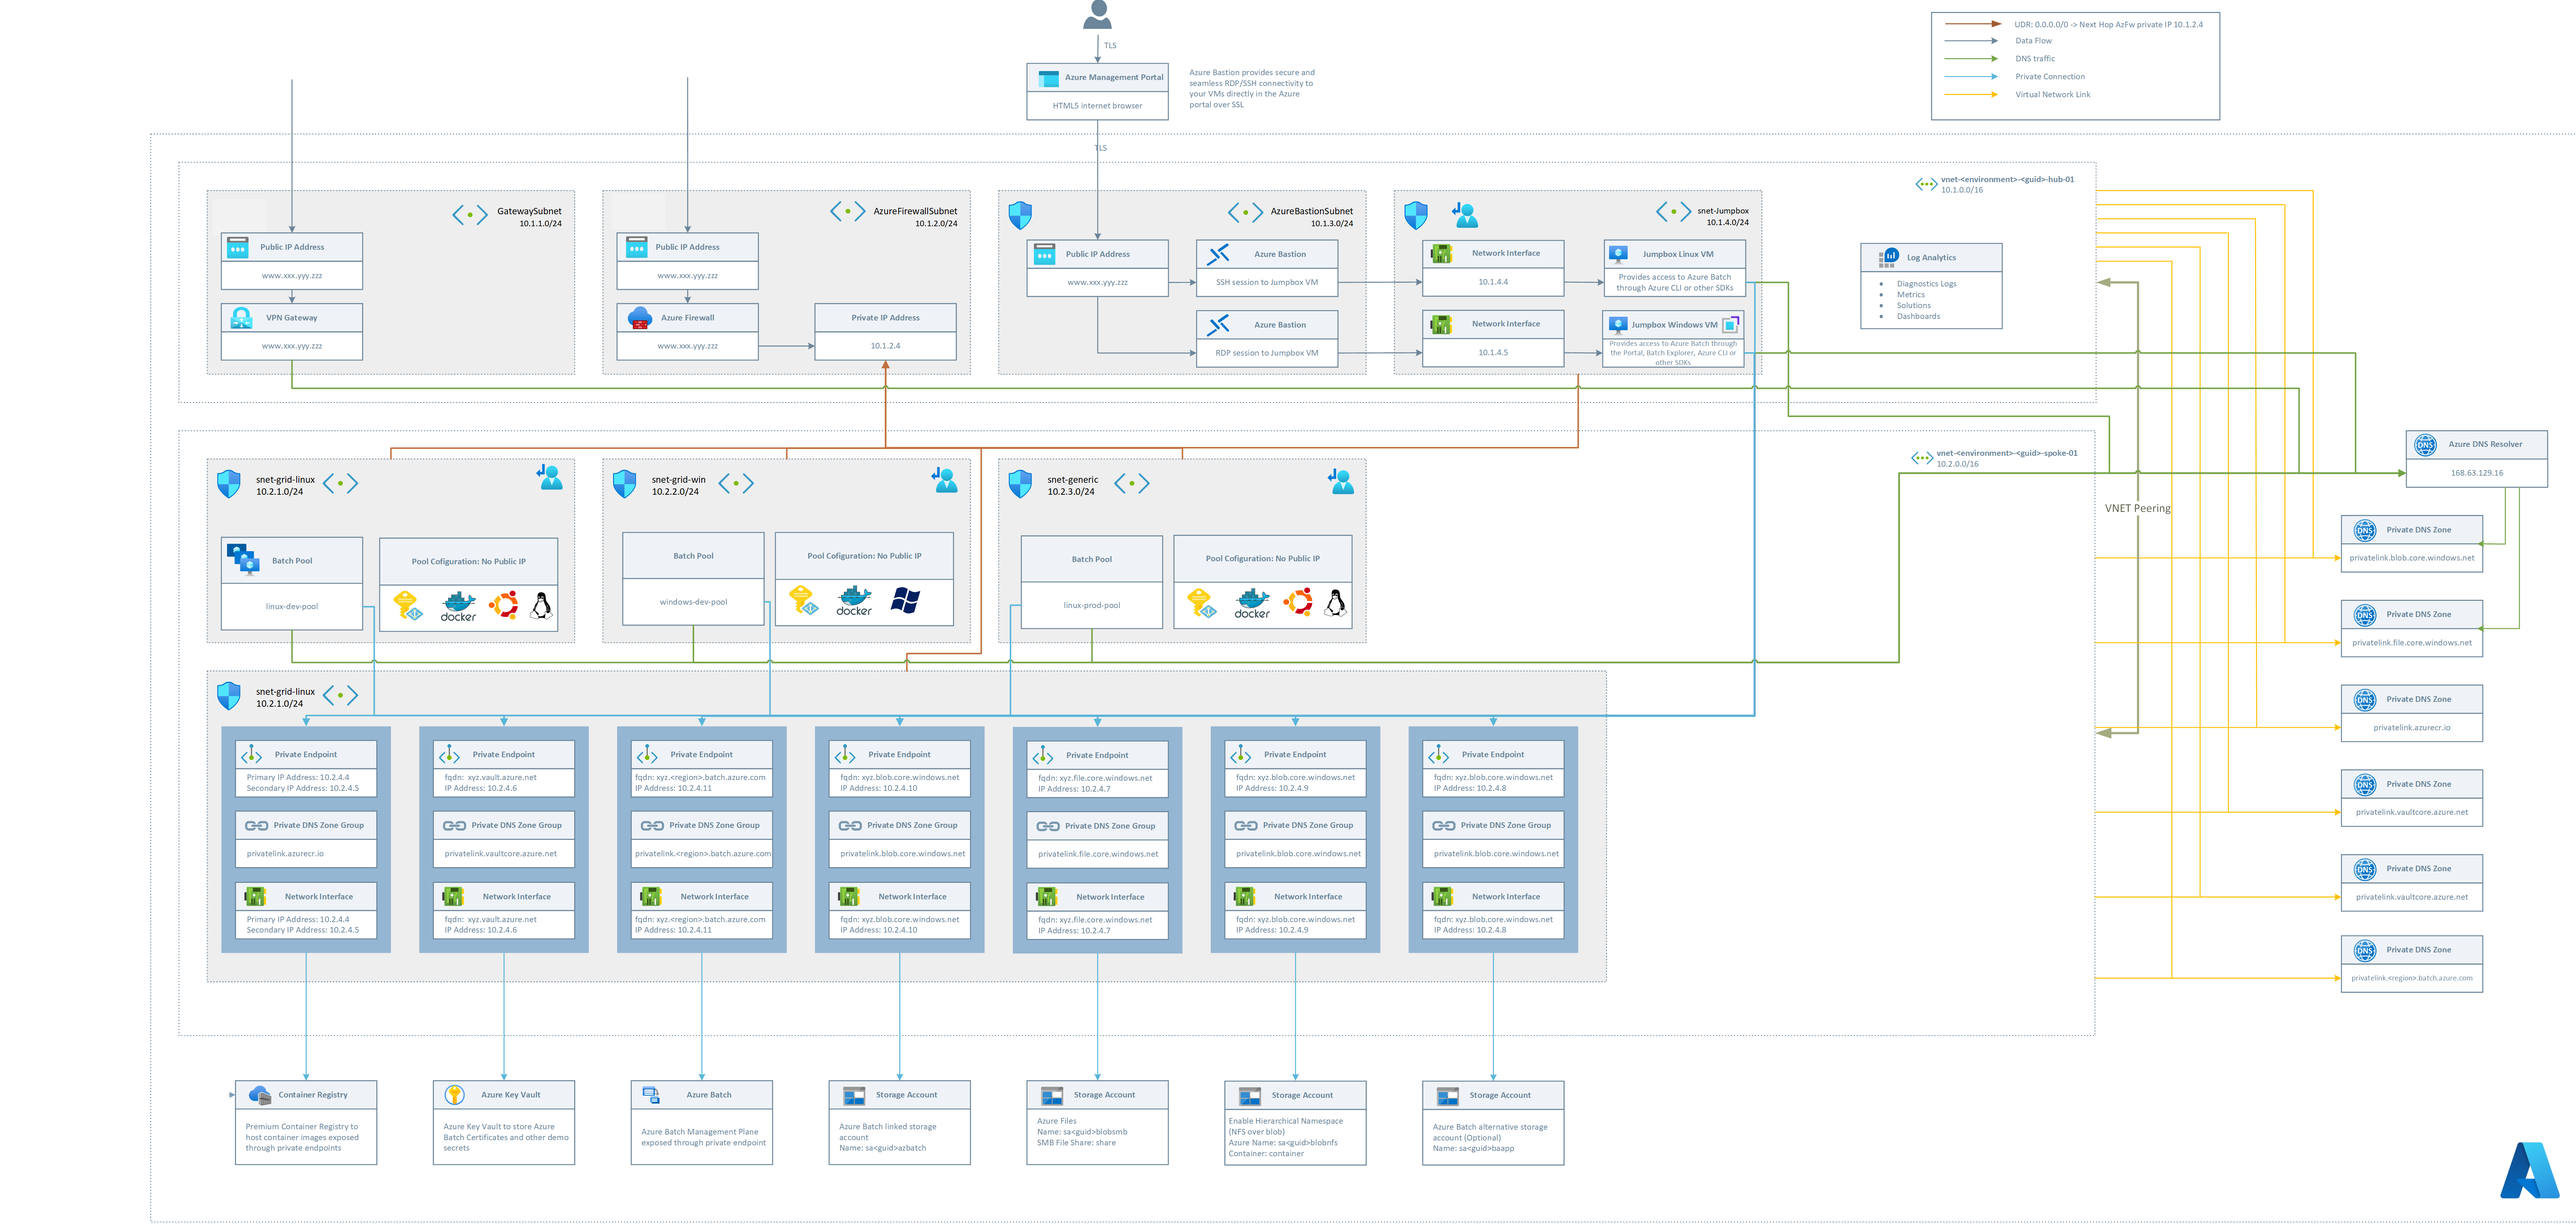
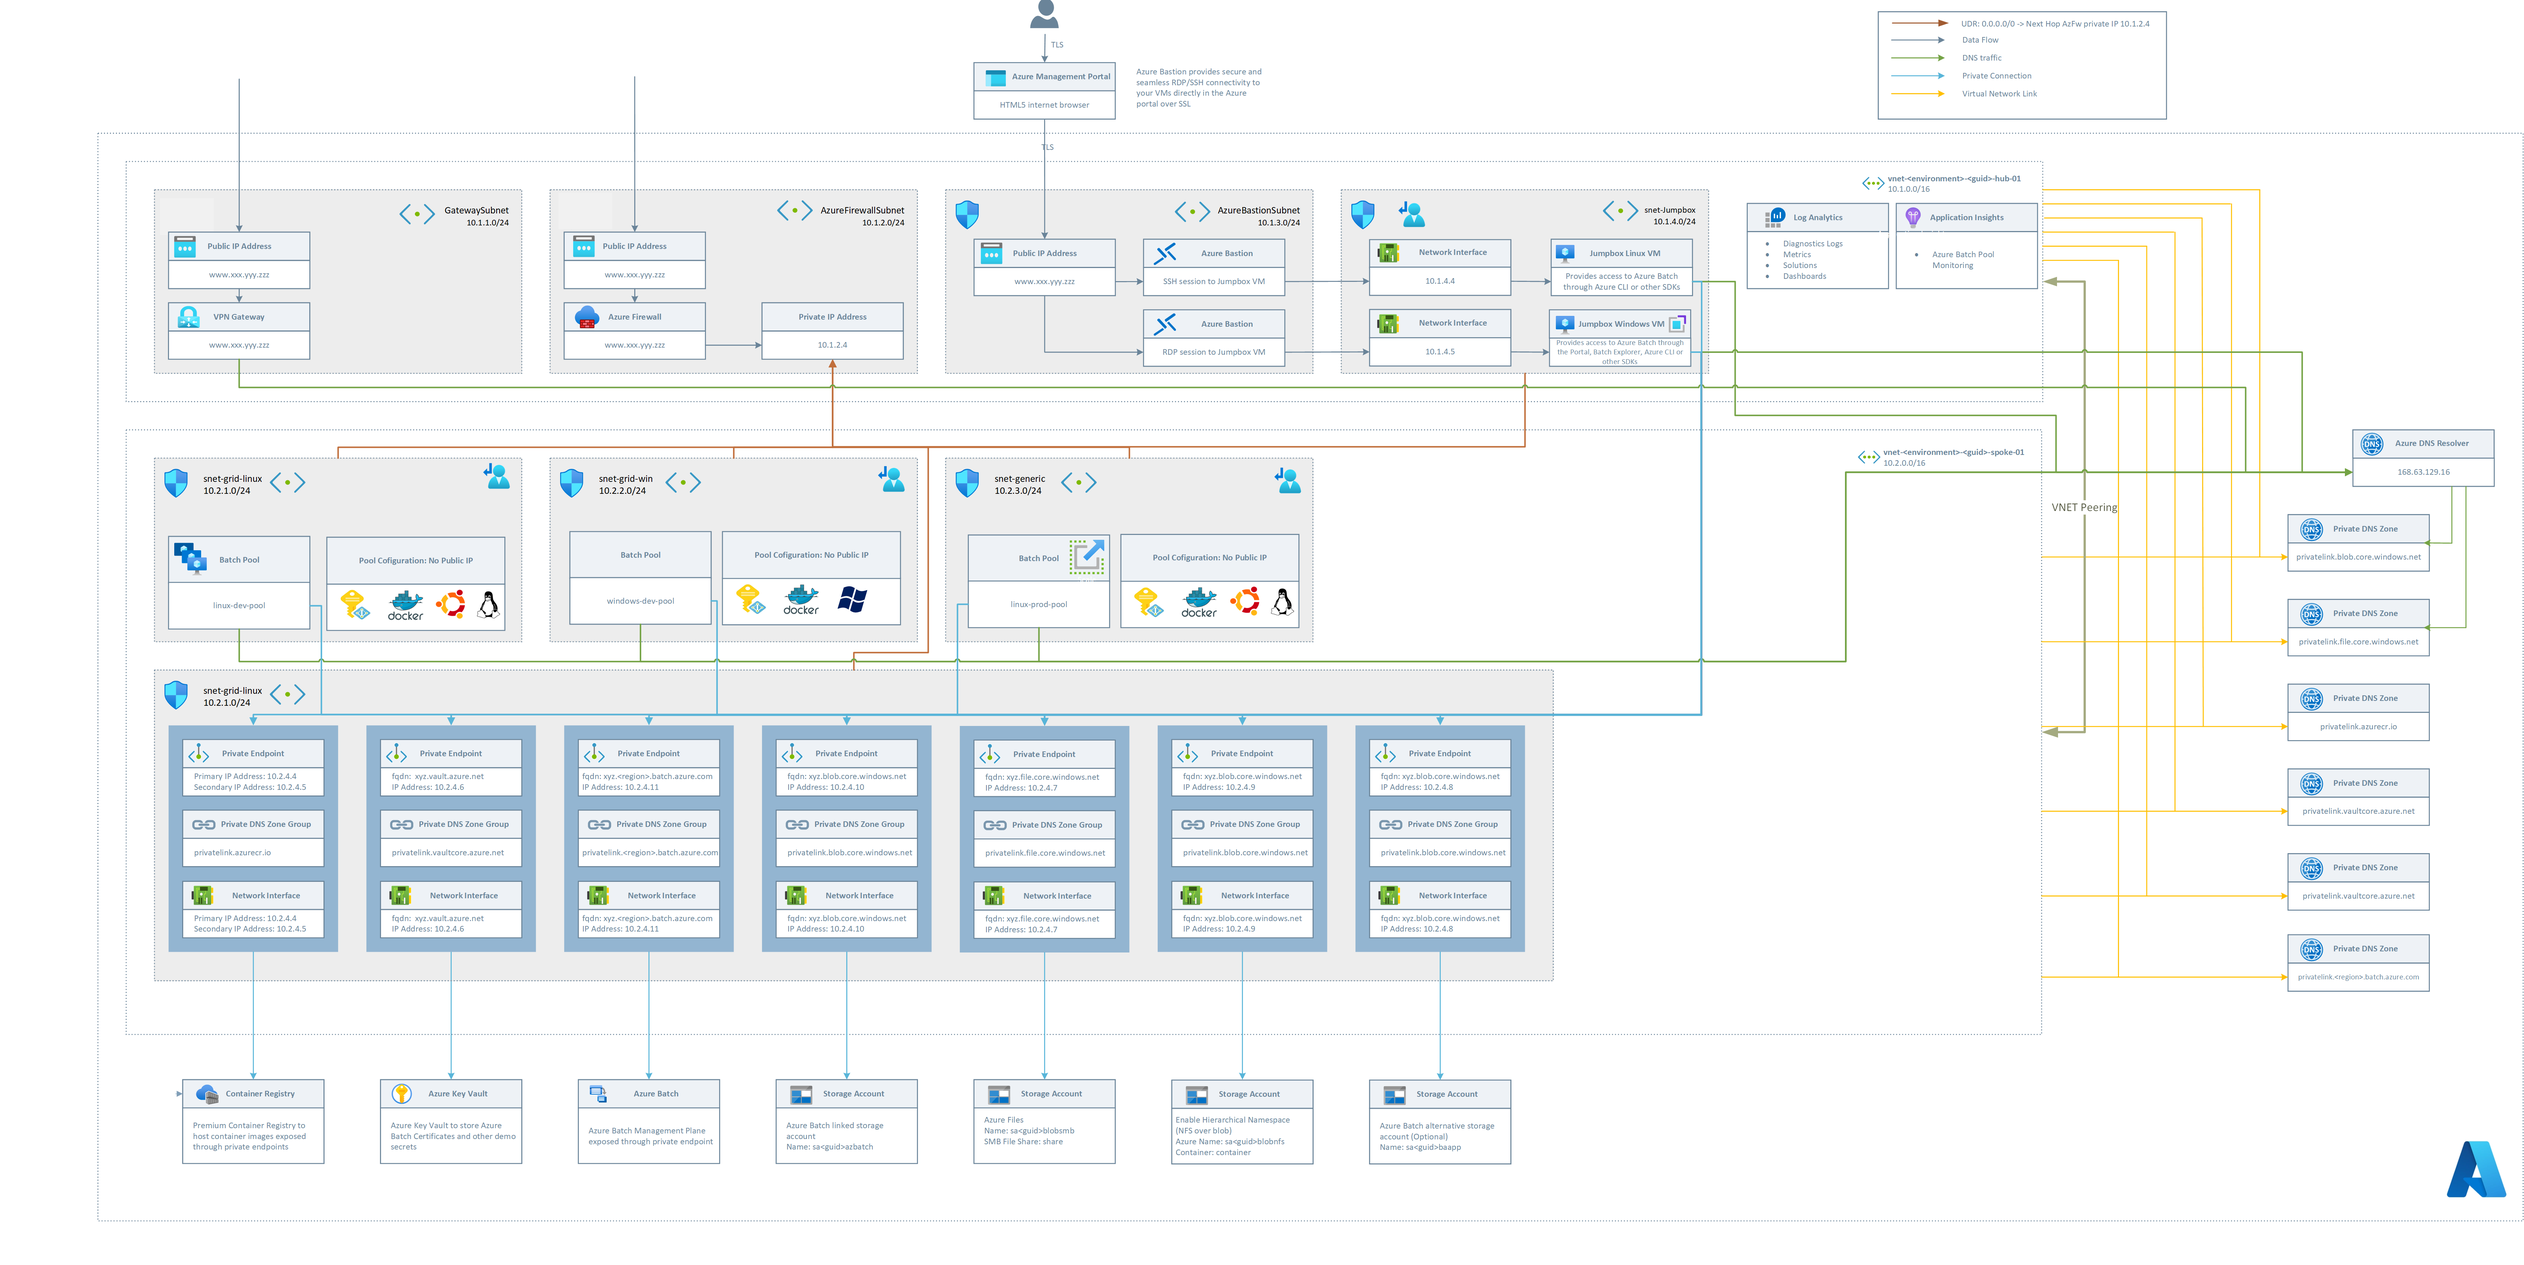
added ReadMe details, modified Winows Batch Image

diff --git a/README.md b/README.md
@@ -9,3 +9,25 @@ Currently, the following resources are deployed to your Azure Subscription:
 
 
 [![Deploy to Azure](https://aka.ms/deploytoazurebutton)](https://portal.azure.com/#create/Microsoft.Template/uri/https%3A%2F%2Fraw.githubusercontent.com%2Fmocelj%2FAzureBatch-Secured%2Fmain%2Fazuredeploy.json)
+
+
+## Parameters
+
+| Parameter Name | Type | Default Value | Possible Values | Description |
+| :-- | :-- | :-- | :-- | :-- |
+| `resourceGroupLocation` | string | `westeurope` | `[eastus,eastus2,westeurope]` |Optional. The region the resources will be deployed to. Default value will be applied in case nothing is provided|
+| `environment` | string | `dev` | `3 character prefix` | Optional. Default value will be applied in case nothing is provided. |
+| `prefix` | string | `unique string created by environment, Subscription Id and resourceGroupLocation` | `-<environment>-<guid>-` | Optional. Default value will be applied in case nothing is provided.  |
+| ` deployHubSpoke` | bool | `true` | `true,false` | Optional. Indicate if Hub-Spoke Network should be deployed. Default value will be applied in case nothing is provided. |
+| `ignoreDnsZoneNwLinks` | bool | `true` | `true,false` | Optional. Default value will be applied in case nothing is provided. |
+| `eployJumpBoxVMs` | bool | `true` | `true,false` | Optional. Indicate if a Linux and Windows Jumpbox should be deployed. Default value will be applied in case nothing is provided.|
+| `deployVPNGw` | bool | `false` | `true,false` | Optional. Indicate if a VPN Gateway should be deployed. Note: deployment may take up to 45 min addtional time. Certificate has to be added after creation. Default value will be applied in case nothing is provided.|
+| `deploySecureBatch` | bool | `true` | `true,false` | Optional. Indicate if Azure Batch Demo should be deployed. Default value will be applied in case nothing is provided. |
+| `adminUserName` | string | `localadmin` |  | Optional. Default value will be applied in case nothing is provided. |
+| `adminPassword` | secure string |  |  | Required. |
+| `resourceTags` | object | `{object}` |  | Optional. Tags of the resource. |
+| `jumpboxLinuxVmSize` | string | `Standard_B1s` | `Standard_B1s,Standard_B2ms` | Optional. Size of the Linux Jumpbox. Default value will be applied in case nothing is provided. |
+| `jumpboxWindowsVmSize` | string | `Standard_D4_v5` | `Standard_B2ms,Standard_B4ms,Standard_D4_v5` | Optional. Size of the Windows Jumpbox. Default value will be applied in case nothing is provided. |
+| `batchServiceObjectId` | string | | az ad sp show --id "MicrosoftAzureBatch" --query objectId -o tsv' | Required. Objected Id of the the Azure Batch Service. Needed to grant contributor permissions in batch user subscription mode deployment. Execute the acli command to get the id. |
+| `assignBatchServiceRoles` | bool | `true` | `true,false` | Optional. If Batch Service has already been granted contributor permissions to subscription, select false - otherwise, select true. Default value will be applied in case nothing is provided. |
+| `batchNodeSku` | string | `Standard_D2s_v3` | `Standard_D2s_V3,Standard_D2s_V4,Standard_D2s_V5,Standard_F2s_v2,Standard_F4s_v2,Standard_F8s_v2,Standard_B2ms,Standard_B4ms,Standard_D4_v5` | Optional. Default value will be applied in case nothing is provided. |
